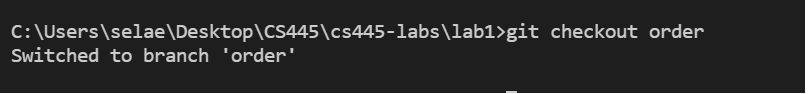
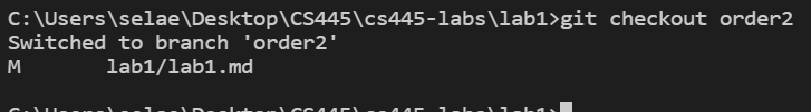
git checkout

Changed region(s): [[0.0, 0.0, 1.0, 1.0], [0.0, 0.5106, 0.3699, 0.6596]]

diff --git a/lab1/lab1.md b/lab1/lab1.md
@@ -33,10 +33,8 @@ __git tag__
 
 
 __git checkout__
-![Git Checkout](gitcheckout.png)
-
-__git merge__
-![Git Merge](gitmerge.png)
+![Git Checkout](gitcheckout.png
+)
 
 
 
